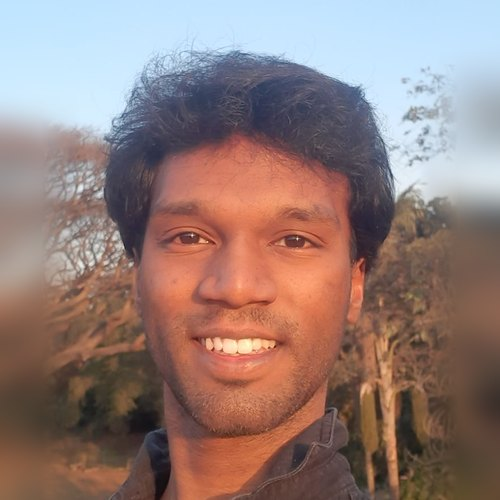
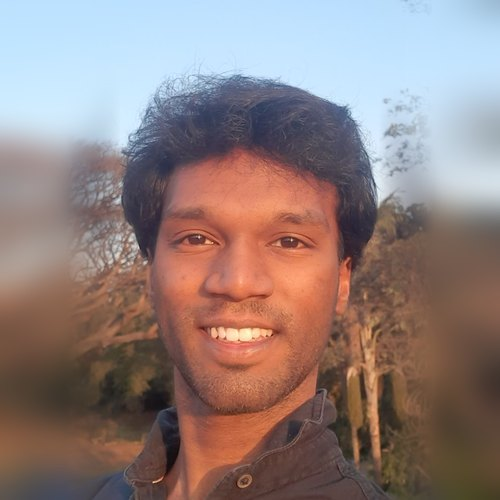
Photo zoomed out further with cache-busting; About ends with Email and CV buttons

diff --git a/index.html b/index.html
@@ -5,7 +5,11 @@ layout: default
   <h1>About</h1>
   <p style="margin-top:14px">I'm a robotics and computer vision engineer. I work on how robots perceive and act: robot learning, reinforcement learning, Vision-Language-Action models and world models, and making these systems run in real time on real hardware.</p>
   <p>At LAT Aerospace I build detection, tracking and video stabilization for UAV gimbal cameras on embedded GPUs. Before this, I worked on multi-agent reinforcement learning for underwater vehicles with Dr. Giulia De Masi at Sorbonne University Abu Dhabi, and on Vision-Language-Action models for robot manipulation at Mowito Automations. I graduated in Mechanical Engineering from IIT Madras in 2026.</p>
-  <p>Feel free to read my <a href="{{ '/cv.pdf' | relative_url }}">CV</a> or <a href="mailto:{{ site.email }}">get in touch</a>.</p>
+  <p>Reach me:</p>
+  <div class="actions" style="display:flex;gap:10px;margin-top:8px">
+    <a class="btn" href="mailto:{{ site.email }}"><i class="fa-solid fa-envelope" aria-hidden="true"></i>Email</a>
+    <a class="btn" href="{{ '/cv.pdf' | relative_url }}"><i class="fa-solid fa-file-lines" aria-hidden="true"></i>CV</a>
+  </div>
 </section>
 
 <section>

diff --git a/_layouts/default.html b/_layouts/default.html
@@ -37,7 +37,7 @@
 
 <div class="layout">
   <aside class="profile">
-    <div class="photo"><img src="{{ '/assets/img/profile.jpg' | relative_url }}" alt="Nirmal Kumaran" onerror="this.remove()">NK</div>
+    <div class="photo"><img src="{{ '/assets/img/profile.jpg' | relative_url }}?v=3" alt="Nirmal Kumaran" onerror="this.remove()">NK</div>
     <div class="who">
       <div class="name">{{ site.title }}</div>
       <p class="tagline">{{ site.tagline }}</p>
